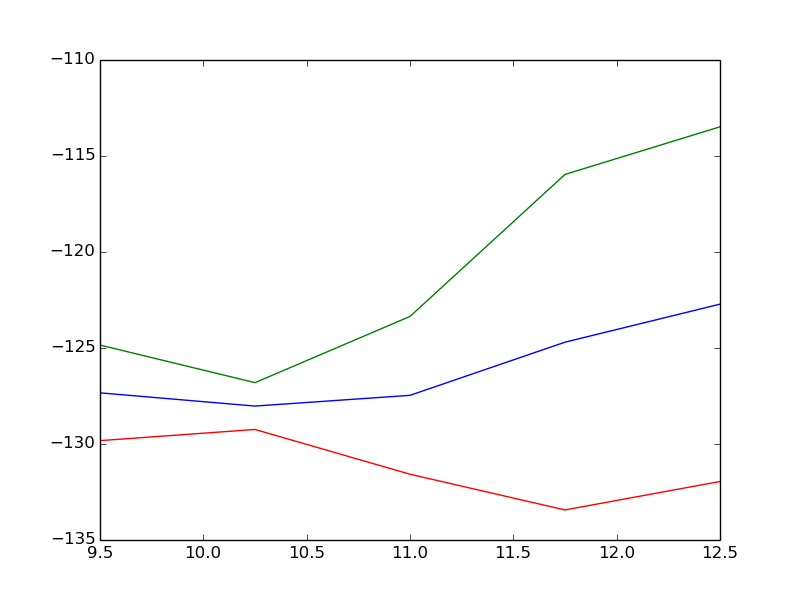
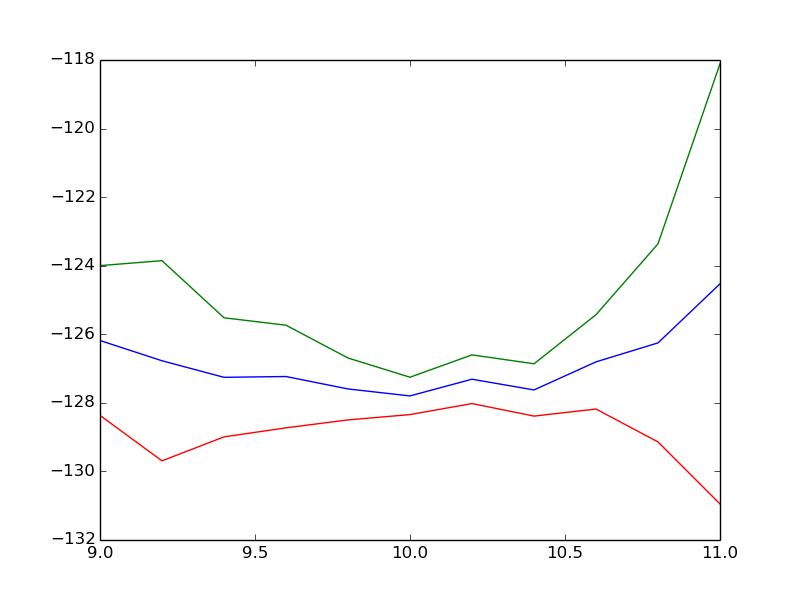
Added gto functionality. Commented out but works.

diff --git a/Project2/src/cpp/vmcsolver/SingleParticleWaveFunctions.h b/Project2/src/cpp/vmcsolver/SingleParticleWaveFunctions.h
@@ -3,6 +3,7 @@
 
 #include <cmath>
 #include <iostream>
+#include "../CPhys/Physical.h"
 
 namespace wave_functions{
     // Constant read only values. 
@@ -16,6 +17,83 @@ namespace wave_functions{
     static int nParticles;
     static int nHalf;
     static double (*getWaveFuncVal)(double** r, double* rAbs);
+
+    using namespace physical::unit;
+    using namespace std;
+
+    static double factorial(int N){
+        double ret = 1;
+        for (double i = 2; i <= N; i += 1) 
+        {
+            ret *= i;
+        }
+        return ret;
+    }
+
+    static double xi(double x, double y, double z, int i, int j, int k, 
+            double alpha, double weight){ 
+        return weight*pow(2*alpha*piInv,0.75)
+            *sqrt(pow(8*alpha,i+j+k)*factorial(i)*factorial(j)*factorial(k)
+            /(factorial(2*i)*factorial(2*j)*factorial(2*k)))
+            * pow(x,i)*pow(y,j)*pow(z,k)*exp(-alpha*(x*x+y*y+z*z));
+    }
+
+    static double xiD(double q, int m, double x, double y, double z, 
+            int i, int j, int k, double alpha, double weight){ 
+        return weight*pow(2*alpha*piInv,0.75)
+            *sqrt(pow(8*alpha,i+j+k)*factorial(i)*factorial(j)*factorial(k)
+            /(factorial(2*i)*factorial(2*j)*factorial(2*k)))
+            * pow(x,i)*pow(y,j)*pow(z,k)*exp(-alpha*(x*x+y*y+z*z))
+            * (m/q - 2*alpha*q);
+    }
+
+    static double xiDD(double x, double y, double z, 
+            int i, int j, int k, double alpha, double weight){ 
+        return weight*pow(2*alpha*piInv,0.75)
+            *sqrt(pow(8*alpha,i+j+k)*factorial(i)*factorial(j)*factorial(k)
+            /(factorial(2*i)*factorial(2*j)*factorial(2*k)))
+            * pow(x,i-2)*pow(y,j-2)*pow(z,k-2)*exp(-alpha*(x*x+y*y+z*z))
+            * (z*z*(y*y*(i*i-i*(4*alpha*x*x+1)+2*alpha*x*x*(2*alpha
+                                * (x*x + y*y + z*z) - 3)) + 
+            j*j*x*x - j*x*x *(4*alpha*y*y + 1)) + k*k*x*x*y*y - 
+            k*x*x*y*y * (4*alpha*z*z + 1));
+    }
+    
+    static double heliumPhi1sGto(double* r){
+        double psi = 0;
+        double phi1 = 0;
+        double phi2 = 0;
+        // Last two numbers are from the basis set, turbmole file.
+        phi1 += xi(r[0],r[1],r[2],0,0,0,13.6267,0.17523);
+        phi1 += xi(r[0],r[1],r[2],0,0,0,1.99935,0.893483);
+        phi2 += xi(r[0],r[1],r[2],0,0,0,0.38299,1);
+        psi += phi1*0.4579 + phi2*0.6573;
+        return psi;
+    }
+
+    static double heliumPhi1sDGto(int x, double* r){
+        double psi = 0;
+        double phi1 = 0;
+        double phi2 = 0;
+        // Last two numbers are from the basis set, turbmole file.
+        phi1 += xiD(r[x],0,r[0],r[1],r[2],0,0,0,13.6267,0.17523);
+        phi1 += xiD(r[x],0,r[0],r[1],r[2],0,0,0,1.99935,0.893483);
+        phi2 += xiD(r[x],0,r[0],r[1],r[2],0,0,0,0.38299,1);
+        psi += phi1*0.4579 + phi2*0.6573;
+        return psi;
+    }
+
+    static double heliumPhi1sDDGto(double* r){
+        double psi = 0;
+        double phi1 = 0;
+        double phi2 = 0;
+        // Last two numbers are from the basis set, turbmole file.
+        phi1 += xiDD(r[0],r[1],r[2],0,0,0,13.6267,0.17523);
+        phi1 += xiDD(r[0],r[1],r[2],0,0,0,1.99935,0.893483);
+        phi2 += xiDD(r[0],r[1],r[2],0,0,0,0.38299,1);
+        psi += phi1*0.4579 + phi2*0.6573;
+        return psi;
+    }
 
     static double f(double r){
         return -0.5*alpha*r;
@@ -106,6 +184,7 @@ namespace wave_functions{
         switch (j) {
             case 0 :
                 return phi1s(rAbs);
+                /* return heliumPhi1sGto(r); */
             case 1 :
                 return phi2s(rAbs);
             case 2 :
@@ -124,6 +203,7 @@ namespace wave_functions{
         switch (j) {
             case 0 :
                 return phi1sD(r[x],rAbs); 
+                /* return heliumPhi1sDGto(x,r); */
             case 1 :
                 return phi2sD(r[x],rAbs);
             case 2 :
@@ -142,6 +222,7 @@ namespace wave_functions{
         switch (j) {
             case 0 :
                 return phi1sDD(rAbs); // Spherical coordinates.
+                /* return heliumPhi1sDDGto(r); */
             case 1 :
                 return phi2sDD(rAbs);
             case 2 :

diff --git a/Project2/src/cpp/vmcsolver/VMCSolver.cpp b/Project2/src/cpp/vmcsolver/VMCSolver.cpp
@@ -422,10 +422,10 @@ bool VMCSolver::initRunVariables()
     wave_functions::nParticles = nParticles;
     wave_functions::nHalf = nHalf;
 
-    wave_functions_gto::nDimensions = nDimensions;
-    wave_functions_gto::nParticles = nParticles;
-    wave_functions_gto::nHalf = nHalf;
-    wave_functions_gto::beta = beta;
+    /* wave_functions_gto::nDimensions = nDimensions; */
+    /* wave_functions_gto::nParticles = nParticles; */
+    /* wave_functions_gto::nHalf = nHalf; */
+    /* wave_functions_gto::beta = beta; */
 
     // Set the wave function as a function pointer
     if (waveFunction == WAVE_FUNCTION_1)
@@ -444,11 +444,6 @@ bool VMCSolver::initRunVariables()
     else if (waveFunction == WAVE_FUNCTION_BERYLLIUM_2)
     {
         getWaveFuncVal = wave_functions::getWaveBeryllium;
-        usingCorrelation = true;
-    }
-    else if (waveFunction == WAVE_FUNCTION_HELIUM_GTO)
-    {
-        getWaveFuncVal = wave_functions_gto::getWaveHelium;
         usingCorrelation = true;
     }
     wave_functions::getWaveFuncVal = getWaveFuncVal;
@@ -555,7 +550,7 @@ bool VMCSolver::initRunVariables()
             for (int j = 0; j < nParticles / 2; j++)
             {
                 pslater1Old[i][j] = phi(j, prNew[i], rAbsNew[i]);
-                pslater2Old[i][j] = phi(j, prNew[i + 2], rAbsNew[i + 2]);
+                pslater2Old[i][j] = phi(j, prNew[i + nHalf], rAbsNew[i + nHalf]);
             }
         }
         // Calculate the inverse and assign the pointers.
@@ -578,21 +573,6 @@ bool VMCSolver::initRunVariables()
     // Finished without error (hopefully).
     return true;
 }
-
-/* void VMCSolver::endOfCycle(int cycle) */
-/* { */
-/*     if (!recordingR12Mean) return; */
-/*     // Calculate the radius of the particle */
-/*     double rAbs = 0; */
-/*     double rsq = 0; */
-/*     for (int j = 0; j < nDimensions; j++) */
-/*     { */
-/*         rsq += (prNew[1][j] - prNew[0][j]) * (prNew[1][j] - prNew[0][j]); */
-/*     } */
-/*     rAbs = sqrt(rsq); */
-/*     // Add it to a sum so we can calculate the mean. */
-/*     rAbsSum += rAbs; */
-/* } */
 
 void VMCSolver::endOfSingleParticleStep(int cycle, int i)
 {

diff --git a/Project2/src/cpp/plot/heliumGTO/main.cpp b/Project2/src/cpp/plot/heliumGTO/main.cpp
@@ -15,10 +15,10 @@ int main(int argc, const char *argv[])
         return -1;
     }
     double beta = atof(argv[1]);
-    int nCycles = 1e4;
+    int nCycles = 1e5;
     int nParticles = 2;
     int threads = 4;
-    int trials = 4;
+    int trials = 10;
     int totalTrials = threads*trials;
     int idum = 1000;
     Vector vEnergiesMean = Vector(totalTrials);
@@ -26,6 +26,7 @@ int main(int argc, const char *argv[])
 
     string adress = "../../../../res/plot/heliumGTO/";
     VMCWrapper wrapper = VMCWrapper();
+    wrapper.alpha = 1.66;
     wrapper.beta = beta;
     wrapper.nDimensions = 3;
     wrapper.nParticles = nParticles;
@@ -36,8 +37,8 @@ int main(int argc, const char *argv[])
     wrapper.hInv = 1000;
     wrapper.h2Inv = 1e+06;
     wrapper.idum = idum;
-    wrapper.useWaveFunctionHeliumGTO();
-    wrapper.useLocalEnergyGeneric();
+    wrapper.useEfficientSlater(true);
+    wrapper.useLocalEnergySlater();
 
     // Set the max number of threads that can be run.
     omp_set_num_threads(threads);
@@ -56,7 +57,7 @@ int main(int argc, const char *argv[])
             {
                 for (int i = 0; i < nParticles; i++) 
                 {
-                    solver.runSingleStep(i,cycle);
+                    solver.runSingleStepSlater(i,cycle);
                     energy += solver.deltaE;
                 }
             }

diff --git a/Project2/src/cpp/vmcsolver/VMCWrapper.cpp b/Project2/src/cpp/vmcsolver/VMCWrapper.cpp
@@ -154,6 +154,10 @@ void VMCWrapper::clear(){
 
 bool VMCWrapper::validateParamters(){
     bool valid = true;
+    if (alpha == 0) {
+        cout << "Error : Alpha value not set!" << endl;
+        valid = false;
+    }
     if (efficientSlater) {
         if (nParticles > 10) {
             cout << "Error : Slater determinant has not been implemented "
@@ -220,11 +224,6 @@ bool VMCWrapper::validateParamters(){
             << "for other than 4 particles." << endl;
         valid = false;
     }
-    /* if (recordingR12Mean && nParticles != 2) { */
-    /*     cout << "Cannot use record r12 mean   " */
-    /*         << "for other than 2 particles." << endl; */
-    /*     valid = false; */
-    /* } */
 
     return valid;
 }

diff --git a/Project2/src/cpp/unittests/main.cpp b/Project2/src/cpp/unittests/main.cpp
@@ -976,9 +976,11 @@ SUITE(Helium)
         double energy = 0;
         VMCSolver solver = wrapper.getInitializedSolver();
         // Run simulation.
-        for (int cycle = 0; cycle < wrapper.nCycles; cycle++) 
+        int nCycles = 1;
+        int nParticles = 2;
+        for (int cycle = 0; cycle < nCycles; cycle++) 
         {
-            for (int i = 0; i < wrapper.nParticles; i++) 
+            for (int i = 0; i < nParticles; i++) 
             {
                 solver.runSingleStep(i,cycle);
                 energy += solver.deltaE;

diff --git a/Project2/src/cpp/CPhys/Physical.h b/Project2/src/cpp/CPhys/Physical.h
@@ -1,3 +1,5 @@
+#ifndef _PHYSICAL_H_INCLUDED
+#define _PHYSICAL_H_INCLUDED
 namespace physical {
 	namespace unit {	 // conversion factor
 		const double	 radian	 = 1.0;
@@ -831,3 +833,4 @@ namespace physical {
 	}
 	namespace constants = constant;
 }
+#endif

diff --git a/Project2/src/python/plot/heliumGTO/run.py b/Project2/src/python/plot/heliumGTO/run.py
@@ -20,7 +20,7 @@ try :
 except OSError:
     pass
 
-betaArray = np.linspace(0.0001,1,11)
+betaArray = np.linspace(0.3,1.5,51)
 
 # Save the beta values.
 np.savetxt(betaFile,betaArray)

diff --git a/Project2/src/cpp/vmcsolver/VMCSolver.h b/Project2/src/cpp/vmcsolver/VMCSolver.h
@@ -9,7 +9,6 @@
 #include <random>
 #include "../CPhys/CPhys.h"
 #include "SingleParticleWaveFunctions.h"
-#include "WaveFunctionsGTO.h"
 
 class VMCSolver
 {
